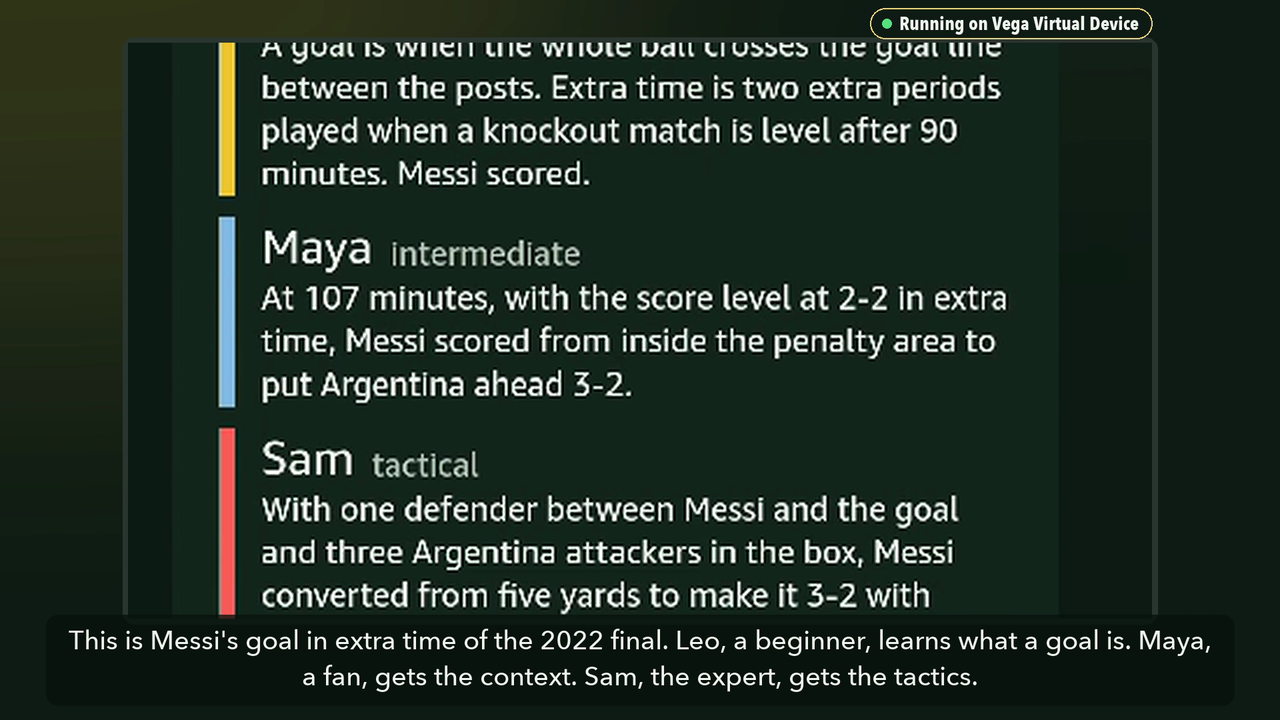
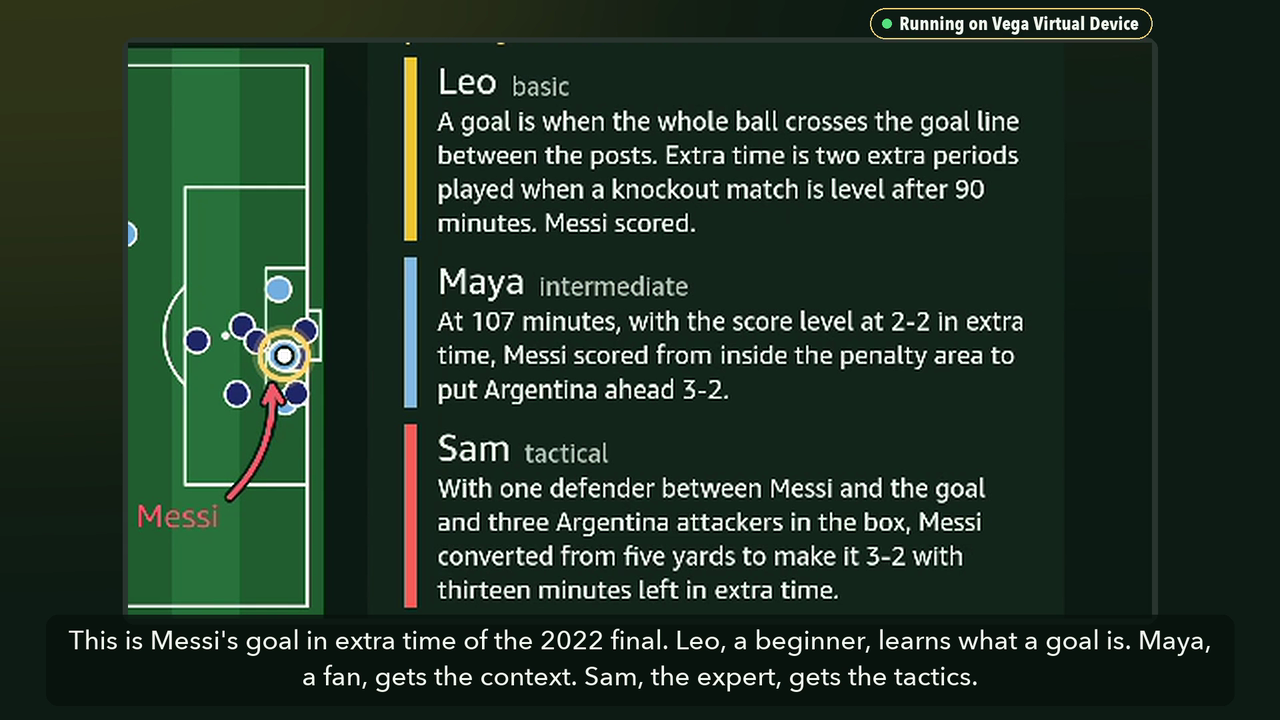
docs: demo video v4 (Alexa scene says "via Alexa", fixed card close-up)
Scene 14 re-recorded with console take 4 and the 539565a build: the TV
labels Maya's answer "via Alexa" and the answer is correct (take 3's
"Onside is only called..." sentence not used). Scene 9 is now a fixed
close-up with all three layers whole. Frames for scenes 9 and 14 updated.

Changed region(s): [[0.0938, 0.0611, 0.8125, 0.8556]]

diff --git a/docs/video.md b/docs/video.md
@@ -1,7 +1,8 @@
 # Demo video
 
-Version 3 (20 Oct), after the review from the PC: whole VVD window, StatsBomb logo, AI disclosure, new line 07,
-card zoom, "Claude + Nova", and a new Alexa scene. Section 5 is the rules check.
+Version 4 (21 Oct). v3 added the whole VVD window, StatsBomb logo, AI disclosure, new line 07, "Claude + Nova" and the
+Alexa scene; v4 re-records the Alexa scene with the TV labelling the answer "via Alexa" (539565a) and replaces the
+scene 9 pan with a fixed close-up of the three layers. Section 5 is the rules check.
 
 ## 1. The file
 
@@ -10,7 +11,7 @@ card zoom, "Claude + Nova", and a new Alexa scene. Section 5 is the rules check.
 | File | `courtside-demo.mp4` |
 | Duration | 2:19.7 (139.7 s) |
 | Video | H.264, 1920×1080, 30 fps |
-| Audio | AAC, 48 kHz, mono, integrated loudness −17.1 LUFS |
+| Audio | AAC, 48 kHz, mono, integrated loudness −17.0 LUFS |
 | Where | Drive folder "Courtside – video demo (hackathon)" as a loose `courtside-demo.mp4`; on the Mac in `~/Desktop/courtside-video/` |
 
 `courtside-entrega.zip` in the same Drive folder is the **previous** version (v2, 1:57) with its inputs; it was not rebuilt.
@@ -21,14 +22,14 @@ card zoom, "Claude + Nova", and a new Alexa scene. Section 5 is the rules check.
 |---|---|
 | `tv-master.mov` (Mac) | Master take, whole VVD window 1160×568, household 2YNW4C, recorded from 19:54 UTC: joins, remote, cards, Leo's and Sam's questions, level-up |
 | `moments_cfr.mp4` (Mac) | Right on the remote through moments 2' to 36' (TV picture only) |
-| `tv-alexa.mov` (Mac) | VVD window during the Alexa take, 22:56:57 to 23:26:57 UTC |
-| `video/alexa-console-take2.mp4` (repo) | Alexa developer console, recorded on the Windows PC; second 0 = 23:03:13 UTC; times in `video/alexa-console-take2.md` |
+| `tv-alexa.mov` (Mac) | VVD window during Alexa take 4, 03:09:25 to 03:39:25 UTC (21 Oct), household H59FVJ, app and backend at 539565a |
+| `video/alexa-console-take4.mp4` (repo) | Alexa developer console, recorded on the Windows PC; second 0 = 03:15:29 UTC; times in `video/alexa-console-take4.md` |
 | `vo/vo_01.wav` … `vo_13.wav` | Narration (Kokoro-82M, `am_michael`); 07 regenerated, 13 new |
 | `musica.wav` | Music (MiniMax-Music3), looped 5× with 3 s crossfades |
 | `build/logo/hudl-statsbomb-logo-white.png` | Official logo, Hudl StatsBomb media pack (`statsbomb.com/media-pack` → `hudl.bynder.com`, collection "Hudl Statsbomb Logos", asset "hudl-statsbomb-logo-white", Usage Rights "External Use Approved"), 2258×344 PNG |
 | `phone/*.jpg` | Screenshots of the deployed phone page; "Join the room" shows 2YNW4C |
 
-`video/alexa-console-take.mp4` (take 1) is not used: the TV did not show the answer during that take (section 4).
+Takes 1 to 3 of the console are not used: in take 1 the TV did not show the answer (section 4); take 2 was used in v3 but the TV said "from their phone"; take 3's answer contained a wrong sentence ("Onside is only called when a player is ahead of the defenders…") and the Mac was not recording the TV at that time.
 
 ### How it was rendered
 
@@ -36,14 +37,14 @@ On the Mac mini, locally:
 
 - Screen takes: macOS `screencapture -v -R100,100,1160,568` of the whole VVD window, driven by `inputd-cli button_press KEY_*` and the Courtside HTTP API (joins, phone questions, got-it). The TV picture is cut out of the window (`crop=962:540:0:28`) for the TV scenes.
 - Takes converted to constant frame rate: `ffmpeg -i take.mov -fps_mode cfr -r 30 …`.
-- Alexa split screen: `build/alexa.py` lines up the console clip and the VVD recording by UTC (console 17.0 s, VVD 23:03:30 UTC) and puts the console chat column (crop 440×740) next to the VVD window.
+- Alexa split screen: `build/alexa.py` lines up the console clip and the VVD recording by UTC (scene from 03:15:50 UTC: console 21.0 s) and puts the console chat column (crop 440×740) next to the VVD window.
 - Graphics: Pillow 12.3 (`graphics.py`); edit: ffmpeg 7.1 (`build.py`): segments, 80 % TV frame with badge, the window-to-TV zoom (`zoompan`, eased, 1 s), captions while each line plays, narration placed with `adelay`, music ducked with `sidechaincompress`, `loudnorm=I=-16`.
 
 ```bash
 cd ~/Desktop/courtside-video
 ~/ia-local/.venv/bin/python -I build/graphics.py
-~/ia-local/.venv/bin/python -I build/alexa.py ~/Repos/courtside/video/alexa-console-take2.mp4 2026-10-20T23:03:13+00:00 \
-    build/alexa_vvd_part.mp4 2026-10-20T23:03:17.409+00:00 2026-10-20T23:03:30+00:00 17
+~/ia-local/.venv/bin/python -I build/alexa.py ~/Repos/courtside/video/alexa-console-take4.mp4 2026-10-21T03:15:29+00:00 \
+    build/alexa_vvd_part.mp4 2026-10-21T03:15:35.146+00:00 2026-10-21T03:15:50+00:00 17
 ~/ia-local/.venv/bin/python -I build/build.py      # writes courtside-demo.mp4
 ```
 
@@ -61,24 +62,24 @@ Times are in the final cut. "Master" times are seconds in the master take (30 fp
 | 6 | 38.8–48.3 | Replay at 4× through real moments 2' to 35', score changing | 12 (39.1): "Courtside replays real matches from open play-by-play data. Every dot is where a player actually stood in the 2022 final, moment by moment, goal by goal." | Moments 0–38, 4× |
 | 7 | 48.3–52.1 | Di María scores, 2–0 | (12 continues) | Moments 37.0–40.8 |
 | 8 | 52.1–57.1 | Messi scores at 107', 3–2, three layers | 05 (52.4): "This is Messi's goal in extra time of the 2022 final. Leo, a beginner, learns what a goal is. Maya, a fan, gets the context. Sam, the expert, gets the tactics." | Master 44.5–49.5 |
-| 9 | 57.1–66.1 | Card zoom: starts with Leo's block whole, pans down, ends on Sam's | (05 continues) | Master 64.5–73.5 |
+| 9 | 57.1–66.1 | Fixed close-up of the card: Leo's, Maya's and Sam's blocks, all whole for the whole scene (no pan) | (05 continues) | Master 64.5–73.5, crop 560×315 |
 | 10 | 66.1–75.9 | "How the AI stays honest" | 06 (66.4): "Every card is built from computed match facts and checked by a second model, so the AI never invents a score or a player." | `honesty.png` |
 | 11 | 75.9–79.9 | "Ask from your phone, by typing or by voice": TV answer still + phone ask screen | 07 (76.2): "Anyone can ask a question from their phone, by typing or by voice. Leo asks why the goal counted. The answer appears on the TV, with his name, at his level." | `phones_ask.png` |
 | 12 | 79.9–87.4 | TV: "Leo asked from their phone", basic answer | (07 continues) | Master 81.0–88.5 |
 | 13 | 87.4–93.4 | TV: "Sam asked", tactical answer (last 2 s frozen) | 08 (87.7): "Sam asks why France couldn't stop Messi, and gets a tactical answer." | Master 99.0–103.0 + hold |
-| 14 | 93.4–110.4 | **Alexa split screen.** Left: console chat (open court side → link household two y n w four c → "Linked…" → "this is maya why was messi's goal not offside" → "It's on your TV, Maya."). Right: VVD window on "Messi scores"; at 105.0 the TV switches to "Maya asked … why was messi's goal not offside", intermediate answer | 13 (98.4): "Or ask Alexa from across the room. The answer lands on the TV, labelled with who asked, at their level." | Console take 2, 17.0–34.0 s (23:03:30–23:03:47 UTC) + `tv-alexa.mov` 392.6–409.6 s; answer on the TV at 23:03:41.6 UTC |
+| 14 | 93.4–110.4 | **Alexa split screen.** Left: console chat (open court side → link household → "Linked…" → "this is maya why was messi's goal not offside" → "It's on your TV, Maya."). Right: VVD window on "Messi scores"; about 11.5 s in, the TV switches to "Maya asked · via Alexa", intermediate answer: "Messi wasn't in an offside position when he shot, so the goal counted. You need at least two opposing players between you and the goal line when the ball is played to you for it to be onside, and Messi had that." | 13 (101.9): "Or ask Alexa from across the room. The answer lands on the TV, labelled with who asked, at their level." | Console take 4, 21.0–38.0 s (03:15:50–03:16:07 UTC) + `tv-alexa.mov` 384.9–401.9 s; answer stored 03:16:00.5 UTC, on the TV about 1 s later |
 | 15 | 110.4–118.9 | Replay with the toast "Leo moved up to Fan" (frozen on the toast) | 09 (110.7): "Courtside remembers what each person has understood. When Leo has learned enough, he moves up to Fan." | Master 113.5–116.0 + hold |
 | 16 | 118.9–131.7 | "One codebase. Built on AWS.": Vega OS, Fire OS, Web; Bedrock (Claude + Nova), Transcribe, API Gateway + Lambda, DynamoDB, Alexa skill (simulator) | 10 (119.2): "One React Native codebase runs on Vega OS, Fire OS and the web, backed by AWS: Amazon Bedrock, Transcribe, Lambda and DynamoDB." | `tech.png` |
 | 17 | 131.7–139.7 | End card: "Courtside", tagline, "Shown running on the Vega Virtual Device (Vega SDK 0.24).", repo, "Data: StatsBomb Open Data" + **StatsBomb logo** + "Analysis is ours, not StatsBomb's.", "Narration: AI voice (Kokoro TTS). Music: AI-generated." | 11 (132.0): "Courtside. Everyone in the room, in the game." | `end.png` |
 
-TV scenes carry the badge "Running on Vega Virtual Device" and sit in an 80 % frame; narration captions run below. One frame per scene: `docs/video-frames/scene-NN-SSS.Ss.png` (1280 px). Scene 9's frame is mid-pan, so its top line is cut on purpose.
+TV scenes carry the badge "Running on Vega Virtual Device" and sit in an 80 % frame; narration captions run below. One frame per scene: `docs/video-frames/scene-NN-SSS.Ss.png` (1280 px).
 
 ## 3. What is real and what is not
 
 Real:
 
 - **The app on Vega.** Every TV shot is the Courtside Vega build running in the Vega Virtual Device (SDK 0.24.12112) on the Mac mini, recorded from the screen; scene 3 and the Alexa scene show the whole simulator window. Only cropping, scaling, a 4× speed-up (scene 6) and freeze frames (13, 15) were applied.
-- **Alexa.** Scene 14 is a real run: the phrases were typed into the Alexa developer console (skill "court side", Test, en-US, Development) on the Windows PC, and the skill pushed Maya's answer through the AWS backend to the TV. The two screens were recorded on two machines and lined up by UTC; the console shows "It's on your TV, Maya." and the TV switches at 23:03:41.6 UTC, the same second the backend logged the answer.
+- **Alexa.** Scene 14 is a real run: the phrases were typed into the Alexa developer console (skill "court side", Test, en-US, Development) on the Windows PC, and the skill pushed Maya's answer through the AWS backend to the TV. The two screens were recorded on two machines and lined up by UTC; the backend stored the answer (via alexa) at 03:16:00.5 UTC and the TV shows it, labelled "via Alexa", about a second later.
 - **The backend.** Household 2YNW4C, viewers, Leo's and Sam's questions, Maya's Alexa question and Leo's promotion went through the deployed AWS API; answers are the ones Bedrock returned live.
 - **The match data.** StatsBomb Open Data, match 3869685 (2022 final); cards from the committed `cards/cards-3869685.json`.
 
@@ -91,7 +92,8 @@ Staged or generated:
 
 ## 4. App issues found while recording
 
-- **The TV labels Alexa answers "from their phone".** In scene 14 the TV shows "Maya asked · from their phone" although the question came from Alexa; the answer screen has one fixed label. Not changed in the video.
+- **Alexa answers were labelled "from their phone"** (v3). Fixed in 539565a: answers from the skill carry `via: alexa` and the TV shows "via Alexa"; v4 was recorded with that build.
+- **A live answer can be wrong.** Take 3's answer said "Onside is only called when a player is ahead of the defenders when receiving the pass" (backwards). Take 4 was used instead; its answer is correct. Live answers are checked only by a word limit, not by the judge model that checks the cards.
 - **The Vega app does not recover its live link after a long idle.** With the app open about 3 hours, answers stopped reaching the TV: Alexa take 1 (22:40 and 22:44 UTC) and a direct API question got answers in the backend but the TV stayed on the replay. Relaunching the app fixed it; take 2 was recorded right after. Friction log F-20.
 - Fixed earlier (in `main`): crash after every phone question (`popTo`, F-18) and pitch labels piling up (Vega `react-native-svg`, F-19).
 
